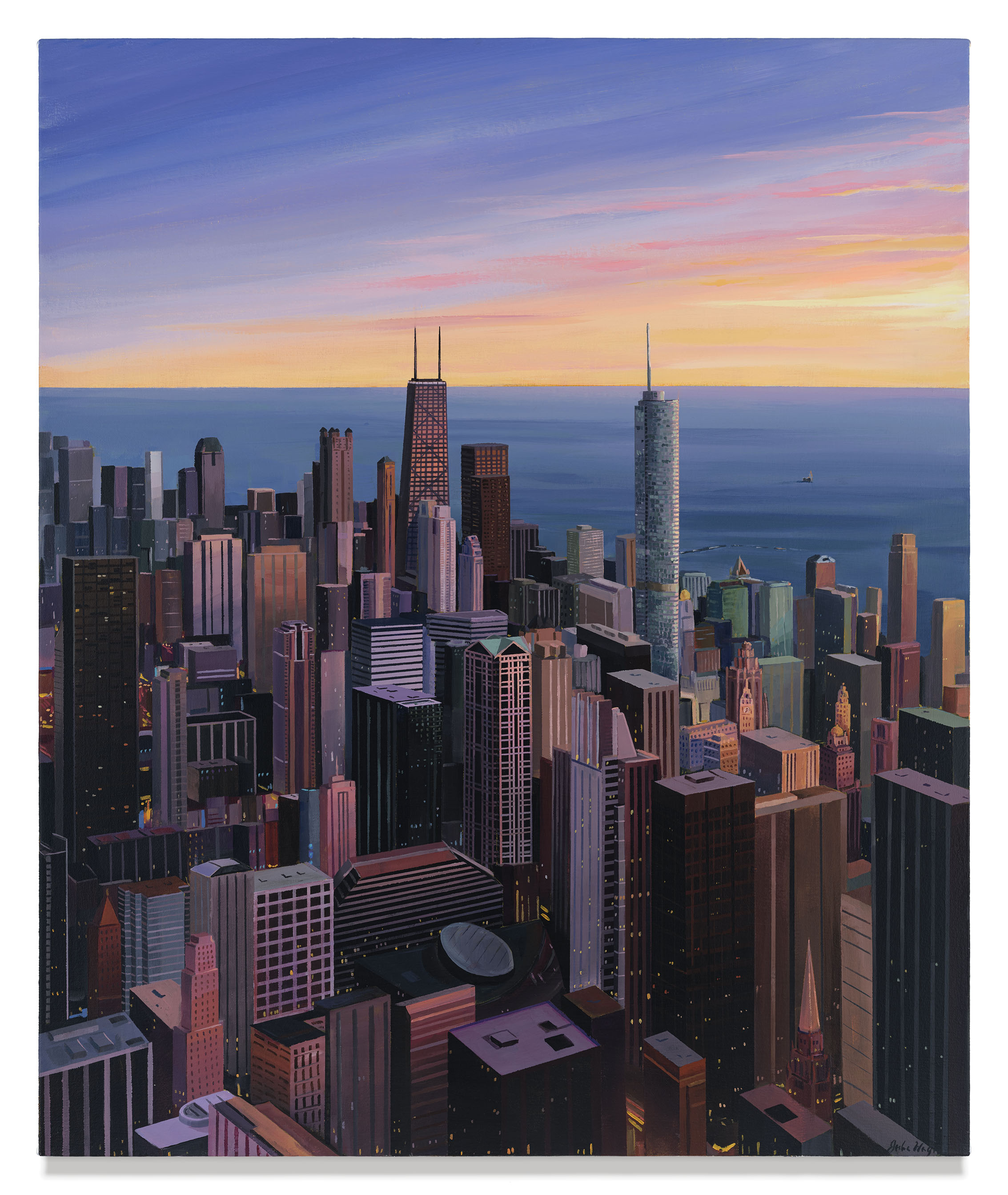
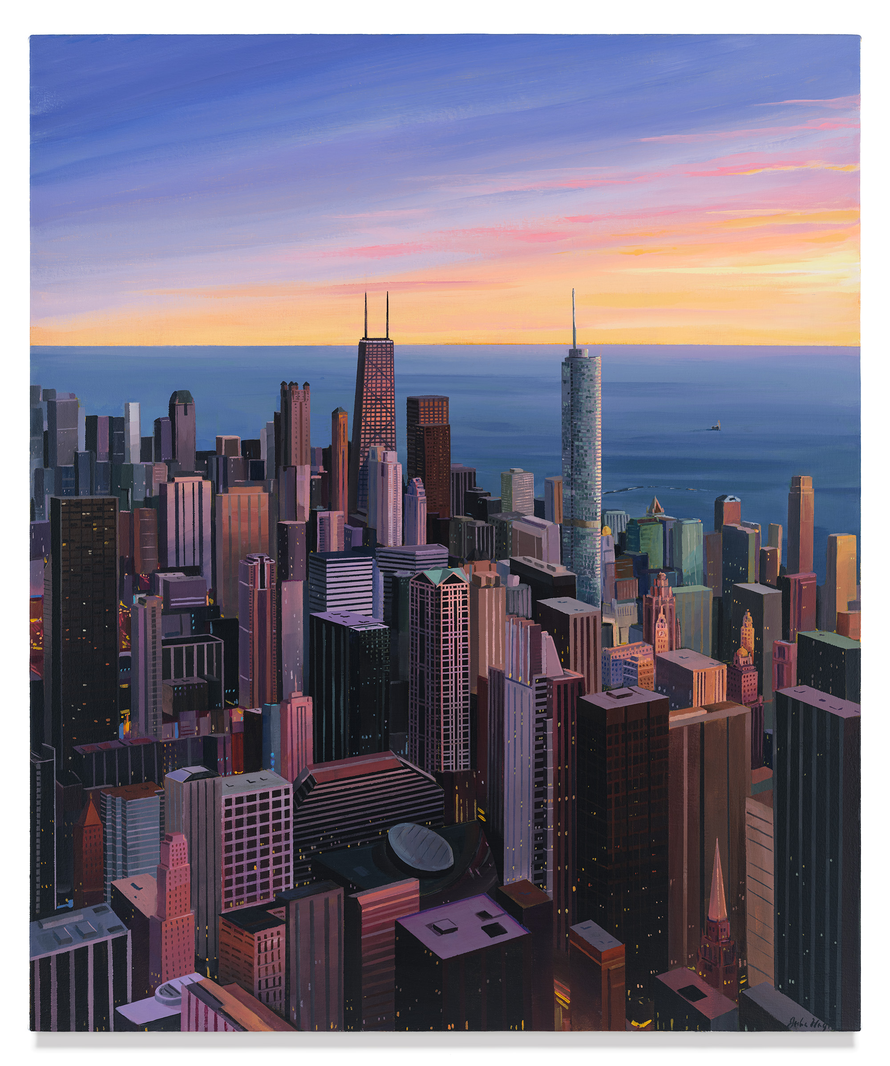
Improved slider image spacing and added new work by O Joyo

diff --git a/index.html b/index.html
@@ -162,7 +162,7 @@
 
                       <div class="slide">
                         <img
-                          src="./images/hagen-j-103rd-tier2-v3-web.jpg"
+                          src="./images/hagen-j-103rd-tier2-web.jpg"
                           alt=""
                           class="slide-image"
                         />
@@ -205,43 +205,18 @@
 
                       <div class="slide">
                         <img
-                          src="./images/callahan-l-black-tier2-web.jpg"
+                          src="./images/joyo-o-lush-tier2.jpg"
                           alt=""
                           class="slide-image"
                         />
                         <p class="artist-title">
-                          <a href="https://lizfcallahan.com/" target="_blank"
-                            >Liz Flores Callahan</a
-                          >,&nbsp;<i>Rainbow Black Baccarat Bunny</i>
+                          <a
+                            href="https://www.oscarjoyoart.com/"
+                            target="_blank"
+                            >Oscar Joyo</a
+                          >,&nbsp;<i>Lush</i>
                         </p>
                       </div>
-
-                      <!-- <div class="slide">
-                        <img
-                          src="./images/peldo-c-hey-gang-tier2-web.jpg"
-                          alt="pop art painting"
-                          class="slide-image"
-                        />
-                        <p class="artist-title">
-                          Chris Peldo,&nbsp;<i>Hey, Gang! Dig That!</i>
-                        </p>
-                      </div> -->
-
-                      <!-- 
-                      <div class="slide">
-                        <img
-                          src="./images/reagan-j-garden-tier2-web.jpg"
-                          alt="floral collage"
-                          class="slide-image"
-                        />
-                        <p class="artist-title">
-                          <a
-                            href="https://www.janreaganart.com/"
-                            target="_blank"
-                            >Jan Reagan</a
-                          >,&nbsp;<i>Pollination Garden</i>
-                        </p>
-                      </div> -->
 
                       <div class="slide">
                         <img
